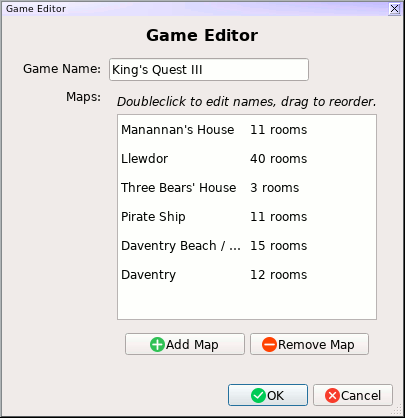
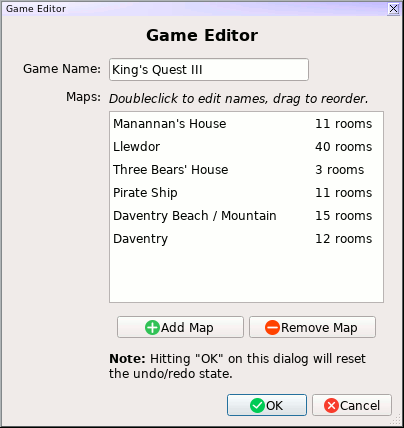
Improve game edit rendering; make the main tableview more compact

diff --git a/advmap/gui.py b/advmap/gui.py
@@ -105,6 +105,9 @@ class Constants(object):
     # Minimum height of a single-line Notes field
     notes_min_height = None
 
+    # Height of each row in our MapListTable
+    maplist_row_height = None
+
     # Parameters for fitting the room title
     title_max_width = room_size - (room_text_padding*2)
     title_max_height = None
@@ -932,6 +935,11 @@ class GUI(QtWidgets.QMainWindow):
             if font_size == Constants.default_note_size:
                 Constants.notes_min_height = m_rect.height()
         Constants.title_max_height = Constants.room_size_half - (Constants.room_text_padding*1) - m_rect.height()
+
+        # Map list row height
+        t = QtWidgets.QGraphicsTextItem('Map Name')
+        t.setFont(QtGui.QFont())
+        Constants.maplist_row_height = t.boundingRect().height()
 
         # Load in some external images; currently all assumed to be the same width
         Constants.gfx_door_in = QtGui.QPixmap(self.resfile('door_in.png'))
@@ -3946,8 +3954,13 @@ class MapListTable(QtWidgets.QTableView):
         self.game = game
         self.verticalHeader().hide()
         self.horizontalHeader().hide()
-        self.horizontalHeader().setSectionResizeMode(QtWidgets.QHeaderView.Stretch)
         self.setShowGrid(False)
+
+        # Would be nice to figure out a way to do this without stylesheets,
+        # I always feel as though I've lost when using CSS for this kind of
+        # thing.  Anyway, this style is just to make sure that our room
+        # count column doesn't bump up against the righthand side.
+        self.setStyleSheet('QTableView::item { padding-right: .5em; }')
 
         # These vars are what enables our basic drag-n-drop reordering
         self.setSelectionBehavior(self.SelectRows)
@@ -3979,6 +3992,19 @@ class MapListTable(QtWidgets.QTableView):
             item_rooms.setDropEnabled(False)
 
             self.model.appendRow([item_name, item_rooms])
+
+        # Set up our column stretching parameters; this has to be done
+        # after the columns already exist.
+        self.horizontalHeader().setSectionResizeMode(0, QtWidgets.QHeaderView.Stretch)
+        self.horizontalHeader().setSectionResizeMode(1, QtWidgets.QHeaderView.ResizeToContents)
+
+        # For the vertical header, ResizeToContents nearly does what I want, but
+        # make it so the rows word-wrap rather than getting truncated with ellipses.
+        # If I use anything other than ResizeToContents, though, I can't style
+        # the padding at all with CSS.  Lame.  So, instead, I'm setting a fixed
+        # height based on some calculations done on GUI startup.
+        self.verticalHeader().setSectionResizeMode(QtWidgets.QHeaderView.Fixed)
+        self.verticalHeader().setDefaultSectionSize(Constants.maplist_row_height)
 
 class EditGameDialog(AppDialog):
     """
@@ -4015,6 +4041,7 @@ class EditGameDialog(AppDialog):
         # First the vbox itself
         vbox = QtWidgets.QWidget()
         layout = QtWidgets.QVBoxLayout()
+        layout.setContentsMargins(0, 5, 0, 0)
         vbox.setLayout(layout)
         self.gridlayout.addWidget(vbox, self.cur_row, 1)
 
